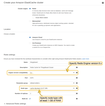
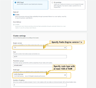
Redis (elasticache) update

diff --git a/docs/user-guide/install/cluster/aws-microservices-setup.md b/docs/user-guide/install/cluster/aws-microservices-setup.md
@@ -58,7 +58,7 @@ mskConnectionParams:
 redisSetup:
     0:
         image: /images/install/cloud/aws/redis-single-1.png
-        title: 'Specify Redis Engine version 6.x and node type with at least 1 GB of RAM.'
+        title: 'Specify Redis Engine version 7.x and node type with at least 1 GB of RAM.'
     1:
         image: /images/install/cloud/aws/redis-single-2.png
         title: 'Make sure your Redis cluster is accessible from the ThingsBoard cluster. The easiest way to achieve this is to deploy the Redis cluster in the same VPC. We also recommend to use private subnets. Use "eksctl-thingsboard-cluster-ClusterSharedNodeSecurityGroup-*" security group.'

diff --git a/docs/user-guide/install/pe/cluster/aws-microservices-setup.md b/docs/user-guide/install/pe/cluster/aws-microservices-setup.md
@@ -58,7 +58,7 @@ mskConnectionParams:
 redisSetup:
     0:
         image: /images/install/cloud/aws/redis-single-1.png
-        title: 'Specify Redis Engine version 6.x and node type with at least 1 GB of RAM.'
+        title: 'Specify Redis Engine version 7.x and node type with at least 1 GB of RAM.'
     1:
         image: /images/install/cloud/aws/redis-single-2.png
         title: 'Make sure your Redis cluster is accessible from the ThingsBoard cluster. The easiest way to achieve this is to deploy the Redis cluster in the same VPC. We also recommend to use private subnets. Use "eksctl-thingsboard-cluster-ClusterSharedNodeSecurityGroup-*" security group.'

diff --git a/_includes/templates/install/aws/redis-setup.md b/_includes/templates/install/aws/redis-setup.md
@@ -2,7 +2,7 @@ You'll need to set up [Amazon ElastiCache (Redis)](https://aws.amazon.com/elasti
 
 Please open AWS console and navigate to ElastiCache->Redis->Create.
 
-* Specify Redis Engine version 6.x and node type with at least 1 GB of RAM;
+* Specify Redis Engine version 7.x and node type with at least 1 GB of RAM;
 * Make sure your Redis cluster is accessible from the ThingsBoard cluster. The easiest way to achieve this is to deploy the Redis cluster in the same VPC. We also recommend to use private subnets. Use "eksctl-thingsboard-cluster-ClusterSharedNodeSecurityGroup-*" security group;
 * Disable automatic backups.
 
